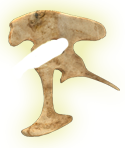
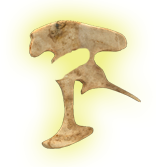
Finished Module 3 Large and Small views
HTML, CSS, and JS changes

diff --git a/styles/dino.css b/styles/dino.css
@@ -333,8 +333,8 @@ body.module2 #zone1 {
 body.module3 #zone1 {
 	position:relative;
 	z-index:350;
-	right:-86px;
-	top:199px;
+	right:-79px;
+	top:183px;
 	cursor:pointer;
 	width:250px;
 	margin:0px auto;
@@ -370,8 +370,8 @@ body.module2 #zone1Hover {
 	left:-200px;
 }
 body.module3 #zone1Hover {
-	top:-220px;
-	left:230px;
+	top:-230px;
+	left:-150px;
 }
 div.blackout {
 	position:absolute;
@@ -768,10 +768,10 @@ body.module3 #exer2 #dino2 {
 	left:230px;
 }
 body.module3 #exer2 #dino1.success {
-	background-image:url("../images/mod2/plat-eating-correct.png") !important;
+	background-image:url("../images/mod3/herr-eating-correct.png") !important;
 }
 body.module3 #exer2 #dino2.success {
-	background-image:url("../images/mod2/ceti-eating-correct.png") !important;
+	background-image:url("../images/mod3/trex-eating-correct.png") !important;
 }
 body.module3 #exer2 #text {
 	margin:130px auto 0px auto;
@@ -1036,6 +1036,10 @@ body.module2 {
 	background-image:url("../images/mod2/module2BG-small.jpg");
 	background-position:center 50px;
 }
+body.module3 {
+	background-image:url("../images/mod3/module3BG-small.jpg");
+	background-position:center 50px;
+}
 /*--------------------- Header Section ----------------------*/
 #header {
 	height:62px;
@@ -1133,6 +1137,10 @@ body.module2 #zone1 {
 	right:-8px;
 	top:214px;
 }
+body.module3 #zone1 {
+	right:-83px;
+	top:130px;
+}
 #zone1Hover,
 #zone2Hover {
 	width:400px;
@@ -1150,6 +1158,9 @@ body.module1 #zone1Hover {
 body.module1 #zone2Hover {
 	top:-250px;
 	right:100px;
+}
+body.module3 #zone1Hover {
+	top:-190px;
 }
 
 /*-------------------- Video Section --------------------*/
@@ -1263,6 +1274,44 @@ body.module2 #exer1 #text {
 	margin:105px auto;
 }
 
+/*---------------- Exercise 1, Module 3 Section ---------------*/
+body.module3 #exer1 #dino1 {
+	background-image:url("../images/mod2/ovir-exer4-small.png");
+	width:114px;
+	height:85px; 
+	top:42px;
+}
+body.module3 #exer1 #dino2 {
+	background-image:url("../images/mod3/anky-small.png");
+	width:213px;
+	height:74px;
+	top:-82px;
+	left:49px;
+}
+body.module3 #exer1 #dino3 {
+	background-image:url("../images/mod3/trex-small.png");
+	width:199px;
+	height:124px;
+	top:-230px;
+	left:260px;
+}
+body.module3 #exer1 #dino4 {
+	background-image:url("../images/mod2/plat-exer4-small.png");
+	width:228px;
+	height:118px;
+	top:-300px;
+	left:450px;
+}
+body.module3 #exer1 #dino1.success {
+	background-image:url("../images/mod3/ovir-correct-small.png") !important;
+}
+body.module3 #exer1 #dino3.success {
+	background-image:url("../images/mod3/trex-correct-small.png") !important;
+}
+body.module3 #exer1 #text {
+	margin:105px auto;
+}
+
 /*---------------- Exercise 2 Module 1 Section ---------------*/
 body.module1 #exer2 #options {
 	background-image:url("../images/mod1/exer2bones-small.png");
@@ -1336,6 +1385,53 @@ body.module2 #exer2 #text {
 	margin:105px auto;
 }
 body.module2 #exer2 #console {
+	height:350px;
+}
+
+
+/*---------------- Exercise 2 Module 3 Section ---------------*/
+body.module3 #table {
+	bottom:-111px;
+}
+body.module3 #exer2 #selectFood {
+	width:437px;
+}
+body.module3 #exer2 #selectFood #leaf-left img {
+	left:12px;
+	margin-right:165px;
+}
+body.module3 #exer2 #selectFood #meat-right img {
+	top:-23px;
+	left:-14px;
+}
+body.module3 #exer2 #selectFood #leaf-right img {
+	top:-22px;
+	left:-2px;
+}
+body.module3 #exer2 #dino1 {
+	background-image:url("../images/mod3/herr-eating-small.png");
+	width:274px;
+	height:166px;
+	top:-150px;
+	left:-140px;
+}
+body.module3 #exer2 #dino2 {
+	background-image:url("../images/mod3/trex-eating-small.png");
+	width:272px;
+	height:165px;
+	top:-320px;
+	left:190px;
+}
+body.module3 #exer2 #dino1.success {
+	background-image:url("../images/mod3/herr-eating-correct-small.png") !important;
+}
+body.module3 #exer2 #dino2.success {
+	background-image:url("../images/mod3/trex-eating-correct-small.png") !important;
+}
+body.module3 #exer2 #text {
+	margin:105px auto;
+}
+body.module3 #exer2 #console {
 	height:350px;
 }
 

diff --git a/js/dino.js b/js/dino.js
@@ -468,7 +468,7 @@ function clickInteraction(exerData){
                         });
                     });
                 }
-            }else if(thisModule == 2){
+            }else if(thisModule == 2 || thisModule == 3){
                 if(thisExer == 1){
                     $('#exer1 #text').fadeOut('fast');
                     $('#exer1 #dinoImages').fadeOut(500, function() {
